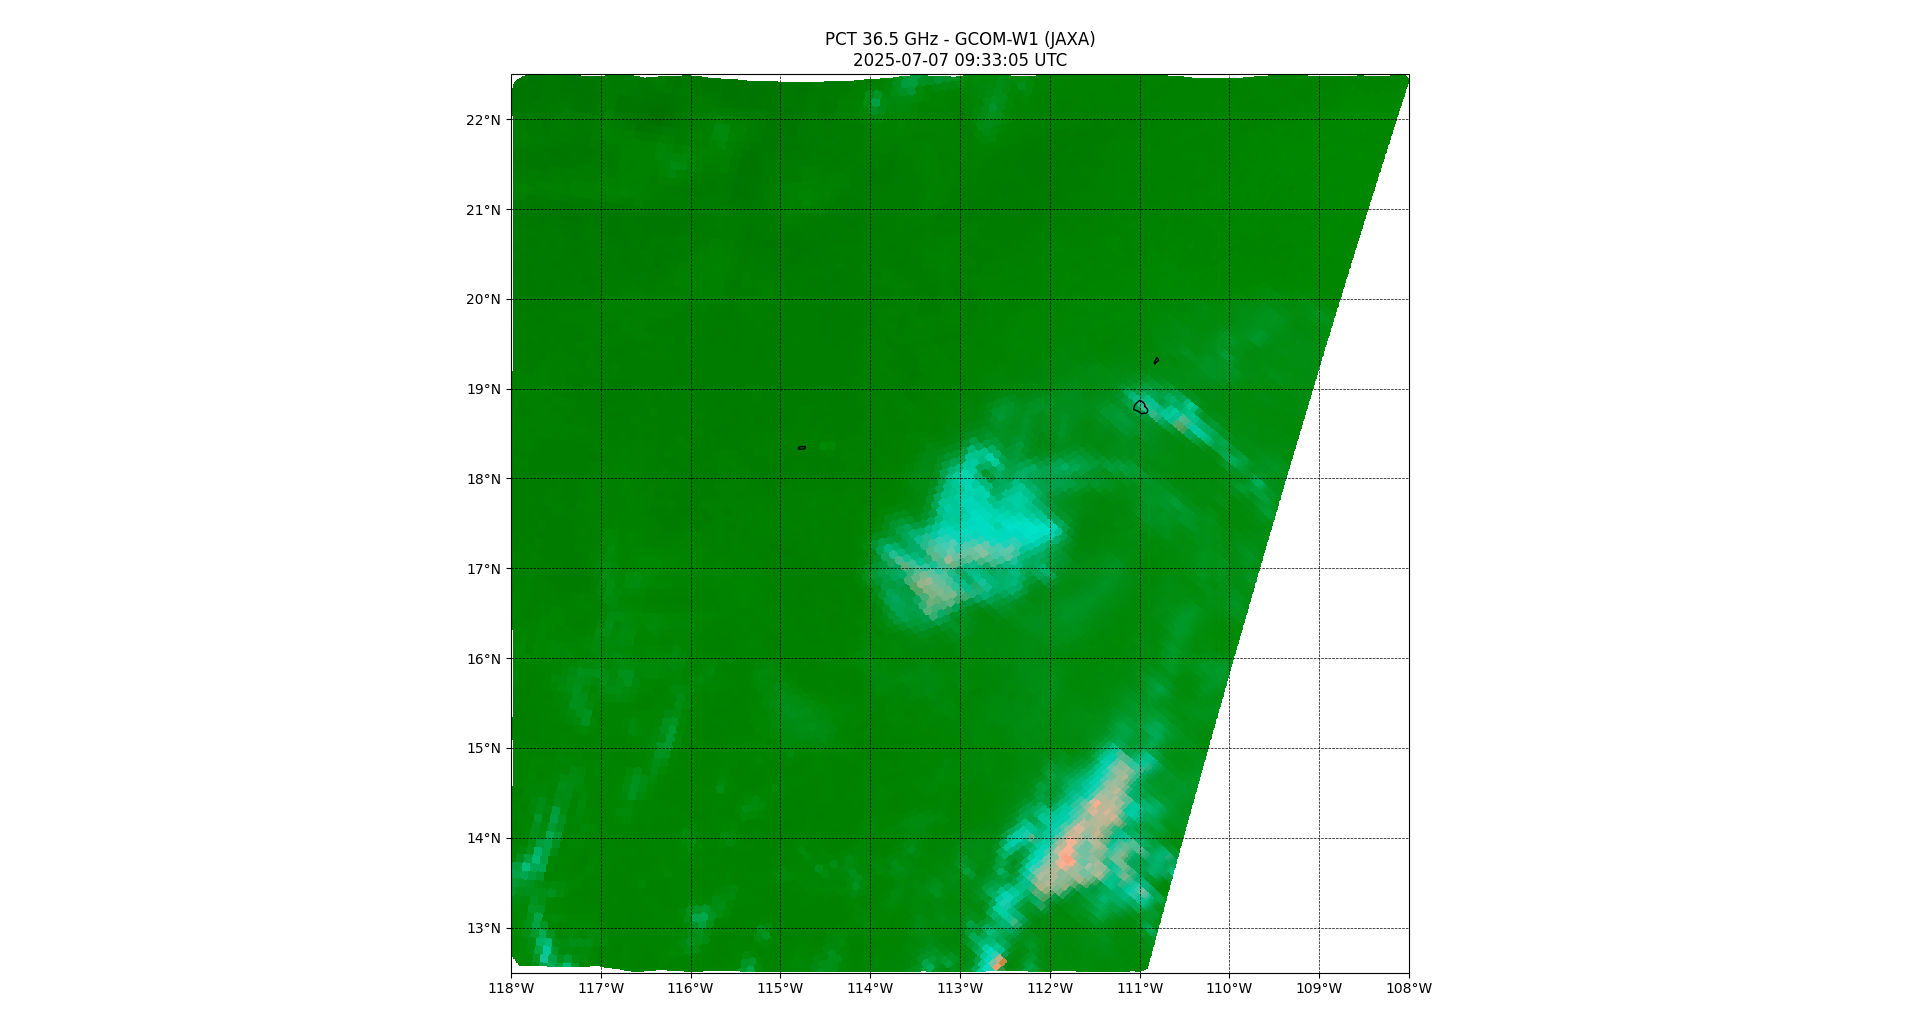
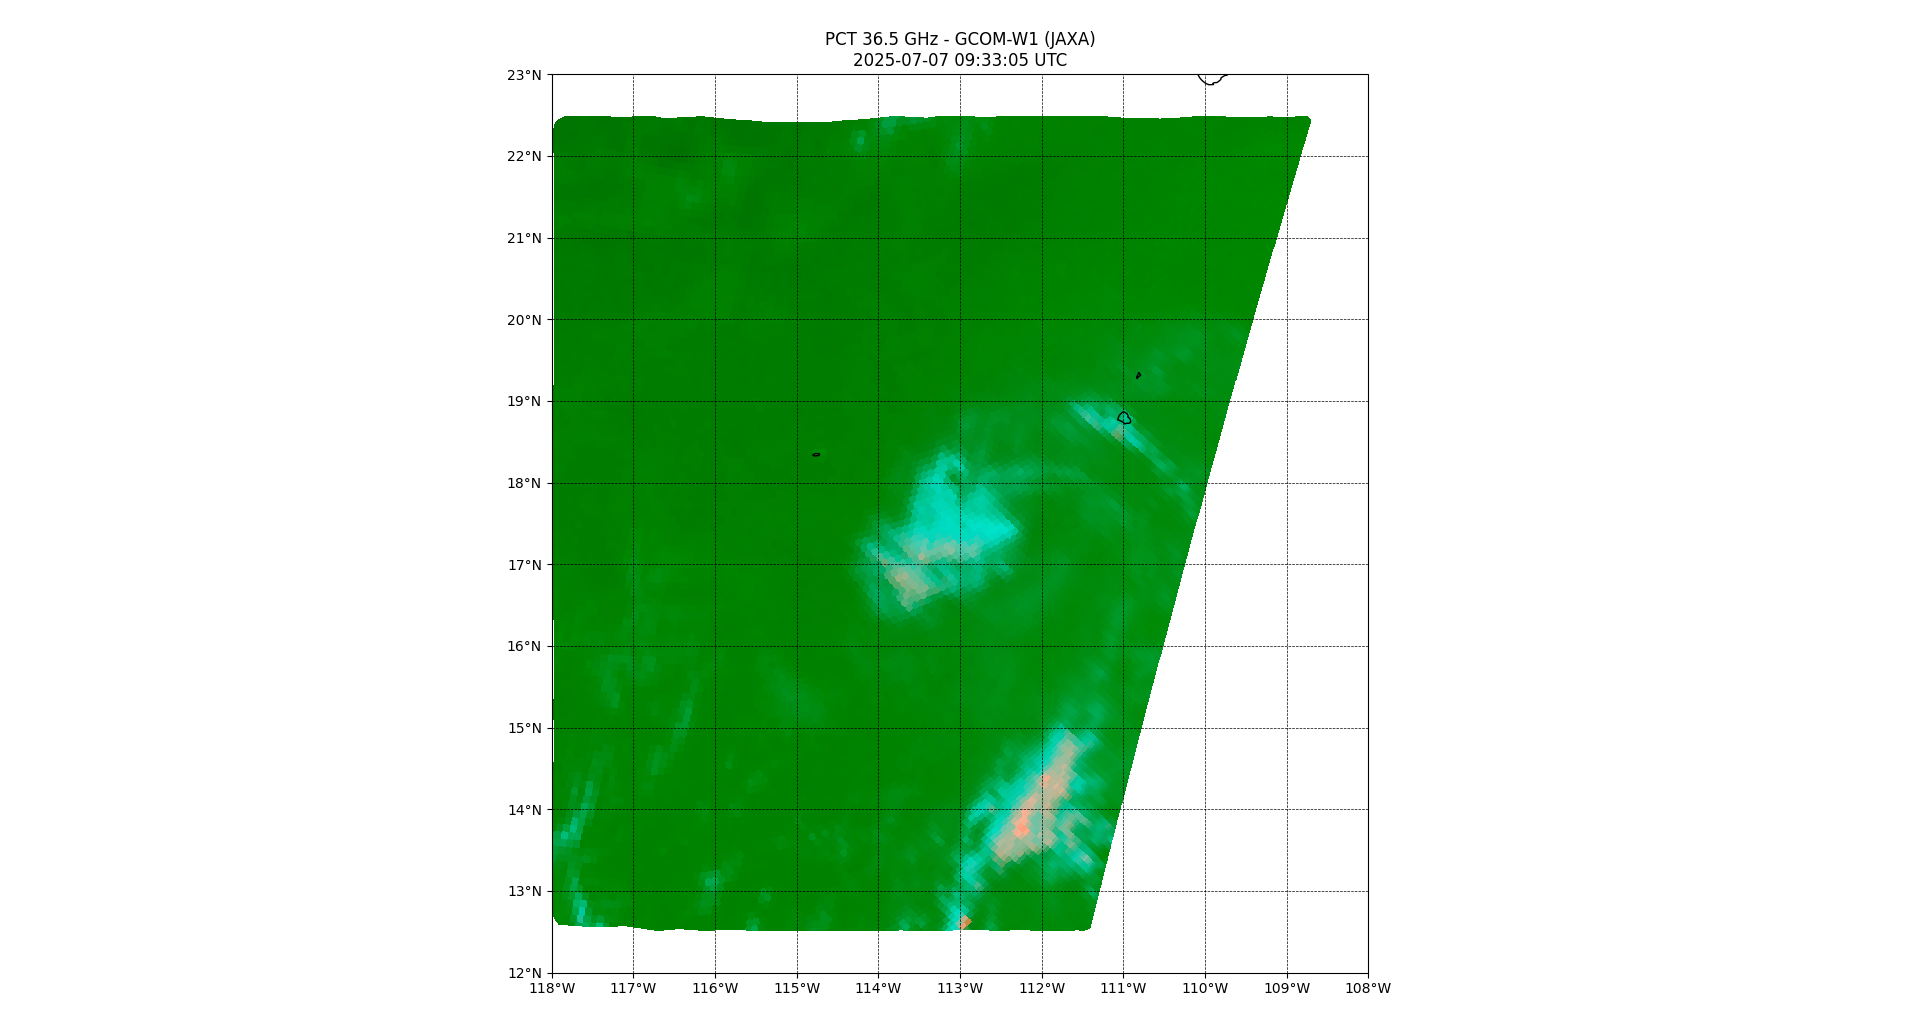
pct.py: fix plotting error (extent was not plotting on regridded mesh grid) looks ok now (coast lines match, and matches compared images from CIRA)

Changed region(s): [[0.25, 0.0607, 0.75, 0.9706], [0.3438, 0.6977, 0.375, 0.728]]

diff --git a/pct.py b/pct.py
@@ -769,20 +769,22 @@ def plot_pct(file_path, center_lat, center_lon):
             # BLACK MASK
             rgb_grid[~mask] = 0
 
-        # === Plot ===
+        # Plot
         plt.figure(figsize=(10, 8))
 
-        # --- Your existing code for ax ---
         ax = plt.axes(projection=ccrs.PlateCarree())
-        ax.set_extent([center_lon - PLOT_RADIUS_DEG, center_lon + PLOT_RADIUS_DEG,
-                    center_lat - PLOT_RADIUS_DEG, center_lat + PLOT_RADIUS_DEG], crs=ccrs.PlateCarree())
+
+        # Use actual interpolation extent from lon_grid and lat_grid
+        extent = [lon_grid[0], lon_grid[-1], lat_grid[0], lat_grid[-1]]
+        ax.set_extent(extent, crs=ccrs.PlateCarree())
+
         ax.coastlines(resolution="10m")
         ax.add_feature(cfeature.BORDERS, linestyle=':')
 
-        lon_min, lon_max, lat_min, lat_max = ax.get_extent(crs=ccrs.PlateCarree())
-
-        xticks = np.arange(np.floor(lon_min), np.ceil(lon_max)+1, 1)
-        yticks = np.arange(np.floor(lat_min), np.ceil(lat_max)+1, 1)
+        # Generate ticks based on extent
+        lon_min, lon_max, lat_min, lat_max = extent
+        xticks = np.arange(np.floor(lon_min), np.ceil(lon_max) + 1, 1)
+        yticks = np.arange(np.floor(lat_min), np.ceil(lat_max) + 1, 1)
 
         ax.set_xticks(xticks, crs=ccrs.PlateCarree())
         ax.set_yticks(yticks, crs=ccrs.PlateCarree())
@@ -791,15 +793,13 @@ def plot_pct(file_path, center_lat, center_lon):
 
         ax.gridlines(xlocs=xticks, ylocs=yticks, color='black', linestyle='--', linewidth=0.5)
 
-        ax.set_extent([target_lon_min, target_lon_max, target_lat_min, target_lat_max], crs=ccrs.PlateCarree())
-
-        # In imshow:
+        # Display the PCT image
         ax.imshow(
             rgb_grid,
             origin='lower',
-            extent=[target_lon_min, target_lon_max, target_lat_min, target_lat_max],
+            extent=extent,
             transform=ccrs.PlateCarree(),
-            interpolation='none'  # don't blur pixels
+            interpolation='none'
         )
 
         plt.title(f"PCT {freq_str} - GCOM-W1 (JAXA)\n{scan_dt.strftime('%Y-%m-%d %H:%M:%S UTC')}")
